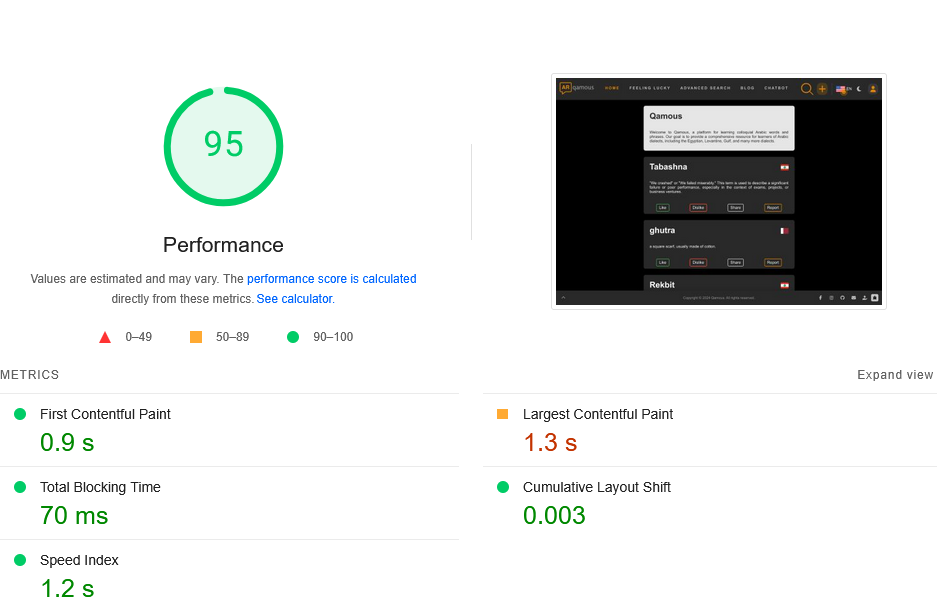
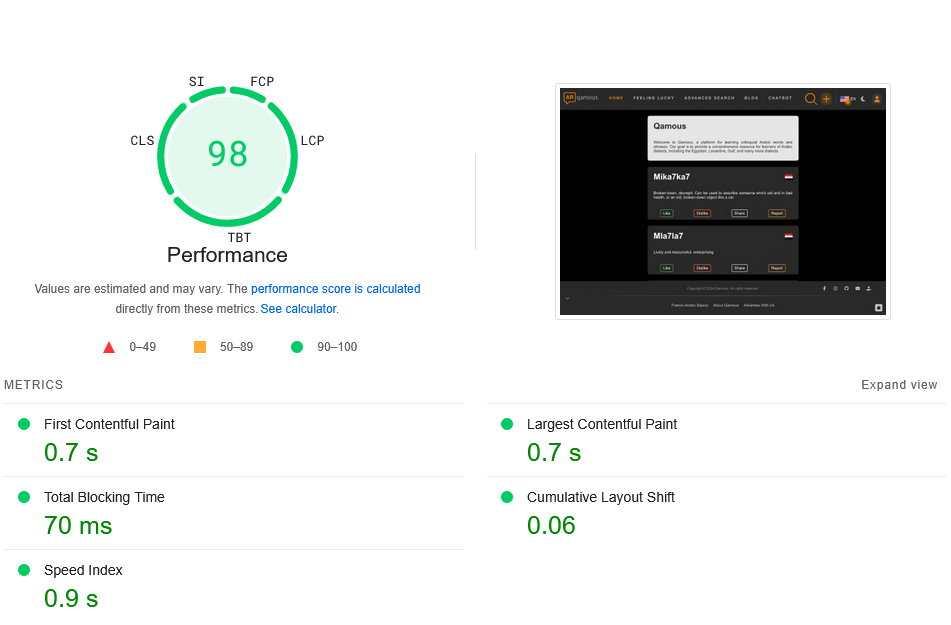
ReadMe Update:
- Update performance image in README

diff --git a/README.md b/README.md
@@ -5,7 +5,7 @@ Qamous (قاموس) is a comprehensive platform for exploring and contributing t
 
 **Looking for the Back-End? Find it [here](https://github.com/anthonyyoussef01/Qamous-Backend).**
 
-![Performance](readme-files/performance.png)
+![Performance](readme-files/old-performance.png)
 
 ## Key Features
 - **Multilingual Support**: Full support for English and Arabic interfaces with RTL/LTR handling
